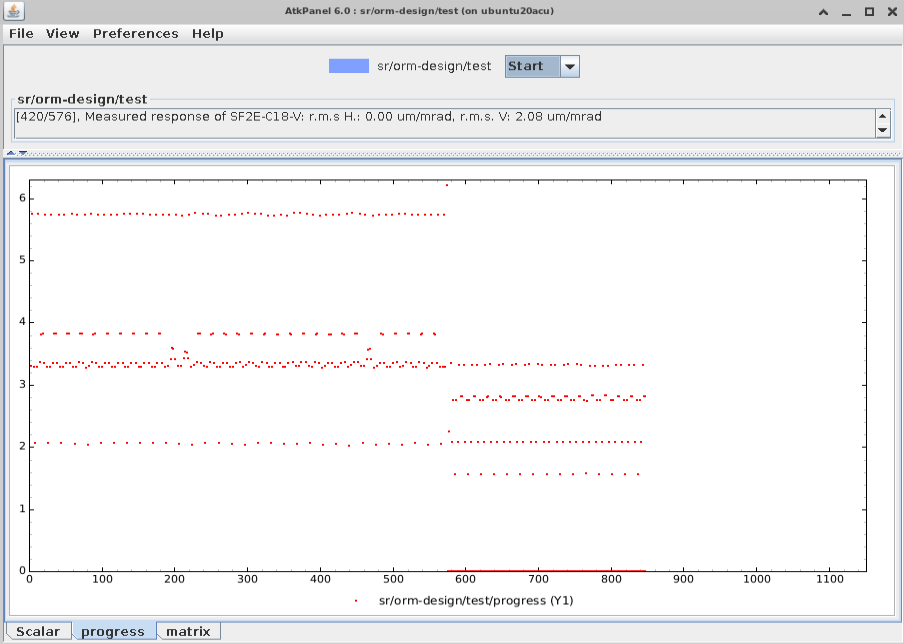
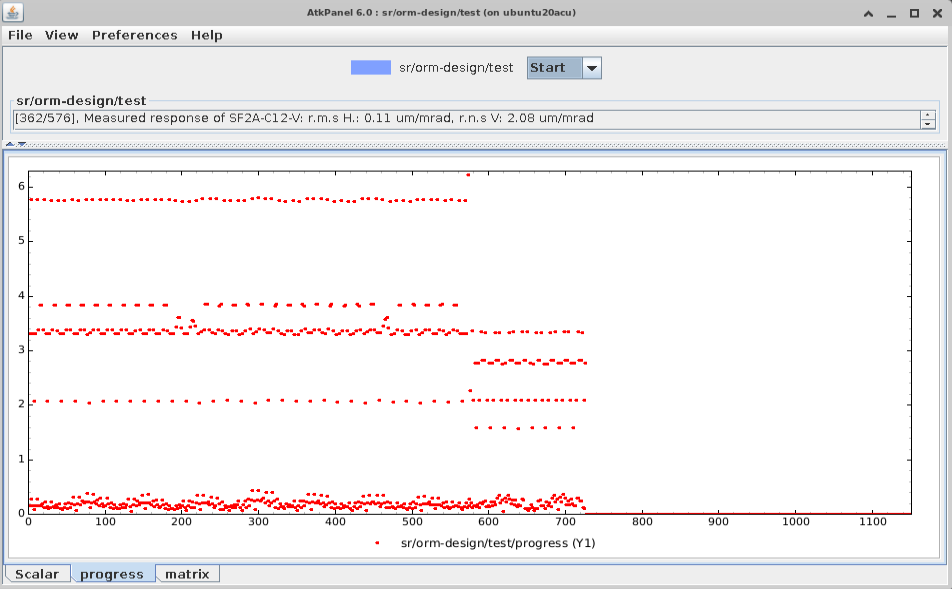
Added error to the lattice

diff --git a/examples/ORM_Tango_server/ORM.py b/examples/ORM_Tango_server/ORM.py
@@ -59,6 +59,9 @@ class ORM(Device):
         self.orm_data = None
         nb_hsteer = len(self.SR.design.get_magnets("HCorr"))
         nb_vsteer = len(self.SR.design.get_magnets("VCorr"))
+        nb_skew = len(self.SR.design.get_magnets("Skews"))
+        skewErr = 1e-3 * np.random.normal(size=nb_skew)
+        self.SR.design.get_magnets("Skews").strengths.set(skewErr)
         self.progress_data = [0] * 2 * (nb_hsteer + nb_vsteer)
         self.set_status(f"Ready to scan: {self.ConfigFileName}")
         self.set_state(DevState.ON)
@@ -121,7 +124,7 @@ class ORM(Device):
     )
     def matrix(self):
         if self.orm_data:
-            return np.array(self.orm_data["matrix"])
+            return np.array(self.orm_data["matrix"]).T
         else:
             return [[0.0]]
 
